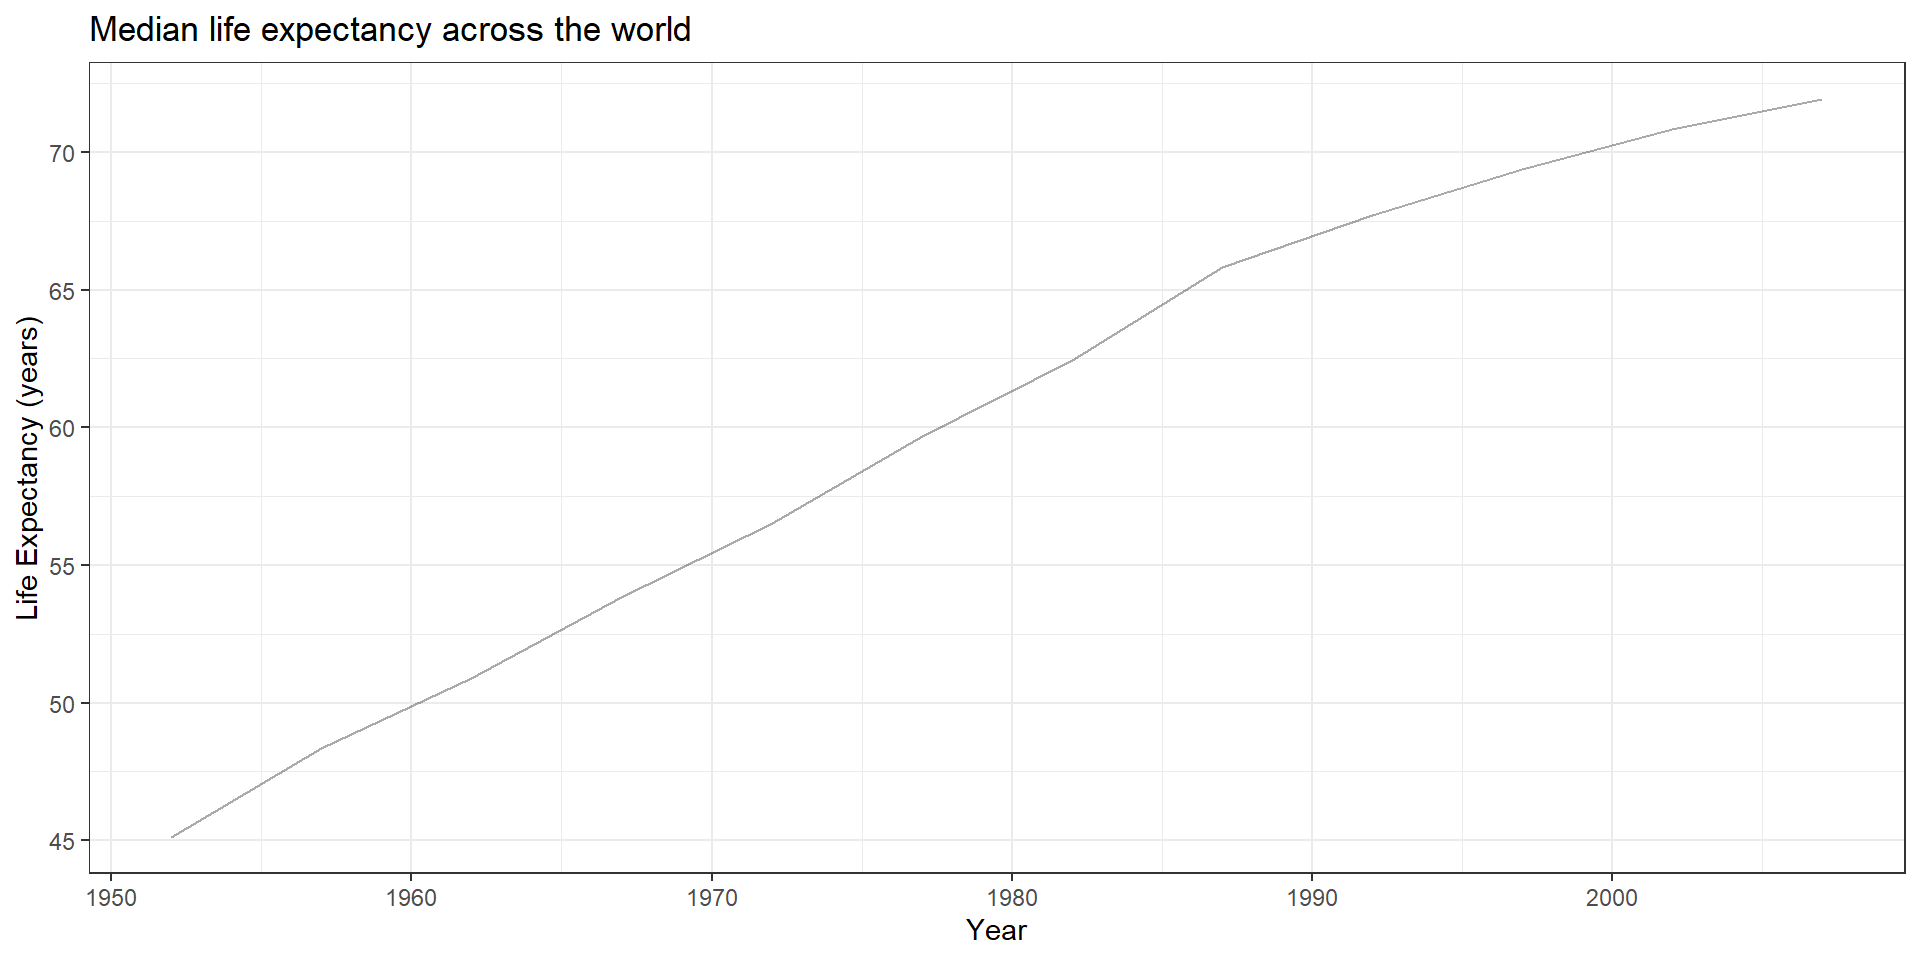
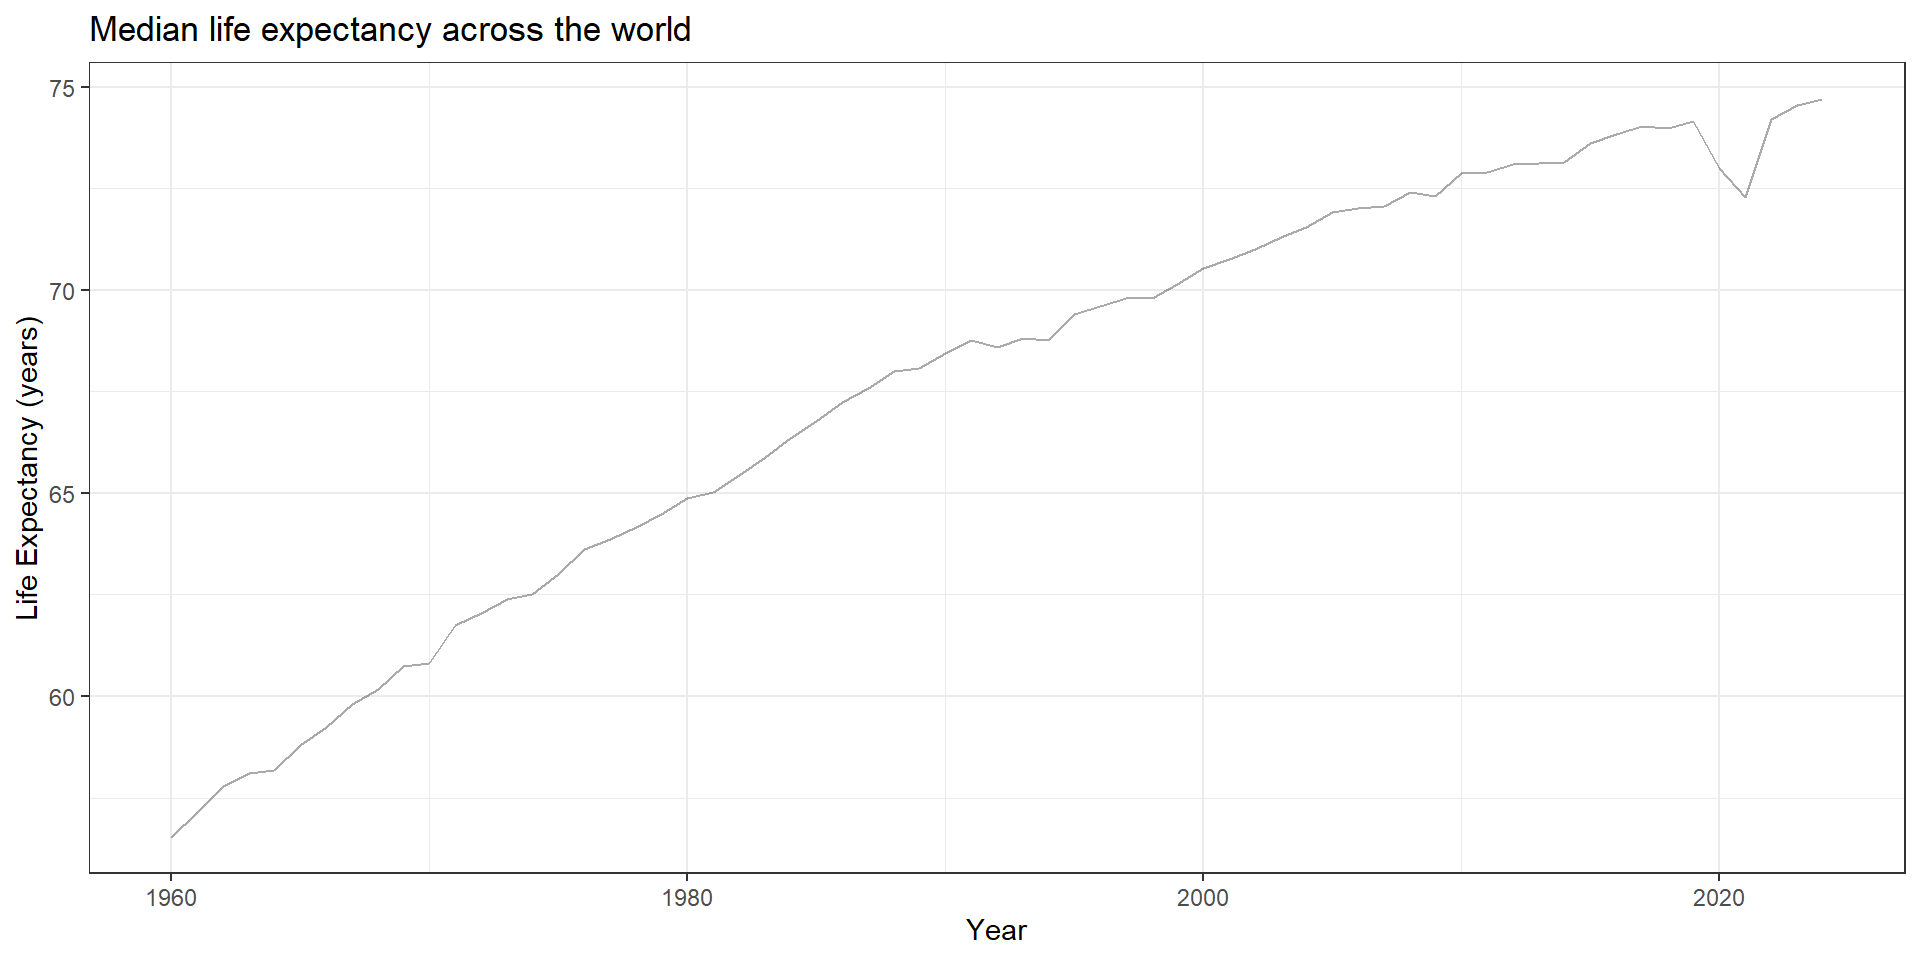
Intro deck: health-and-wealth charts on World Bank data through 2024 (was gapminder to 2007)

diff --git a/00-intro/intro.html b/00-intro/intro.html
@@ -253,11 +253,11 @@ Ian McCarthy
 <div class="cell" data-layout-align="center">
 <details class="code-fold">
 <summary>R Code</summary>
-<div class="code-copy-outer-scaffold"><div class="sourceCode cell-code" id="cb1"><pre class="sourceCode numberSource r number-lines code-with-copy"><code class="sourceCode r"><span id="cb1-1"><a href=""></a>gapminder <span class="sc">%&gt;%</span></span>
-<span id="cb1-2"><a href=""></a>  <span class="fu">group_by</span>(year) <span class="sc">%&gt;%</span></span>
-<span id="cb1-3"><a href=""></a>  <span class="fu">summarize</span>(<span class="at">lifeExp =</span> <span class="fu">median</span>(lifeExp),</span>
-<span id="cb1-4"><a href=""></a>            <span class="at">gdpMed =</span> <span class="fu">median</span>(gdpPercap)) <span class="sc">%&gt;%</span></span>
-<span id="cb1-5"><a href=""></a>  <span class="fu">ggplot</span>(<span class="fu">aes</span>(year,lifeExp)) <span class="sc">+</span> <span class="fu">geom_line</span>(<span class="at">alpha =</span> <span class="dv">1</span><span class="sc">/</span><span class="dv">3</span>) <span class="sc">+</span> <span class="fu">theme_bw</span>() <span class="sc">+</span></span>
+<div class="code-copy-outer-scaffold"><div class="sourceCode cell-code" id="cb1"><pre class="sourceCode numberSource r number-lines code-with-copy"><code class="sourceCode r"><span id="cb1-1"><a href=""></a>wb <span class="sc">%&gt;%</span></span>
+<span id="cb1-2"><a href=""></a>  <span class="fu">filter</span>(<span class="sc">!</span><span class="fu">is.na</span>(life_exp)) <span class="sc">%&gt;%</span></span>
+<span id="cb1-3"><a href=""></a>  <span class="fu">group_by</span>(year) <span class="sc">%&gt;%</span></span>
+<span id="cb1-4"><a href=""></a>  <span class="fu">summarize</span>(<span class="at">life_exp =</span> <span class="fu">median</span>(life_exp)) <span class="sc">%&gt;%</span></span>
+<span id="cb1-5"><a href=""></a>  <span class="fu">ggplot</span>(<span class="fu">aes</span>(year, life_exp)) <span class="sc">+</span> <span class="fu">geom_line</span>(<span class="at">alpha =</span> <span class="dv">1</span><span class="sc">/</span><span class="dv">3</span>) <span class="sc">+</span> <span class="fu">theme_bw</span>() <span class="sc">+</span></span>
 <span id="cb1-6"><a href=""></a>    <span class="fu">labs</span>(<span class="at">x =</span> <span class="st">"Year"</span>,</span>
 <span id="cb1-7"><a href=""></a>         <span class="at">y =</span> <span class="st">"Life Expectancy (years)"</span>,</span>
 <span id="cb1-8"><a href=""></a>         <span class="at">title =</span> <span class="st">"Median life expectancy across the world"</span>)</span></code></pre></div><button title="Copy to Clipboard" class="code-copy-button"><i class="bi"></i></button></div>
@@ -270,11 +270,13 @@ Ian McCarthy
 <div class="cell" data-layout-align="center">
 <details class="code-fold">
 <summary>R Code</summary>
-<div class="code-copy-outer-scaffold"><div class="sourceCode cell-code" id="cb2"><pre class="sourceCode numberSource r number-lines code-with-copy"><code class="sourceCode r"><span id="cb2-1"><a href=""></a><span class="fu">ggplot</span>(<span class="at">data =</span> gapminder, <span class="at">mapping =</span> <span class="fu">aes</span>(<span class="at">x =</span> gdpPercap, <span class="at">y =</span> lifeExp)) <span class="sc">+</span> </span>
-<span id="cb2-2"><a href=""></a>  <span class="fu">geom_point</span>(<span class="at">size =</span> <span class="dv">1</span>) <span class="sc">+</span> <span class="fu">theme_bw</span>() <span class="sc">+</span> <span class="fu">scale_x_continuous</span>(<span class="at">label =</span> comma) <span class="sc">+</span></span>
-<span id="cb2-3"><a href=""></a>  <span class="fu">labs</span>(<span class="at">x =</span> <span class="st">"GDP Per Capita ($US)"</span>,</span>
-<span id="cb2-4"><a href=""></a>       <span class="at">y =</span> <span class="st">"Life Expectancy (years)"</span>,</span>
-<span id="cb2-5"><a href=""></a>       <span class="at">title =</span> <span class="st">"Life expectancy and GDP"</span>)</span></code></pre></div><button title="Copy to Clipboard" class="code-copy-button"><i class="bi"></i></button></div>
+<div class="code-copy-outer-scaffold"><div class="sourceCode cell-code" id="cb2"><pre class="sourceCode numberSource r number-lines code-with-copy"><code class="sourceCode r"><span id="cb2-1"><a href=""></a>wb <span class="sc">%&gt;%</span></span>
+<span id="cb2-2"><a href=""></a>  <span class="fu">filter</span>(<span class="sc">!</span><span class="fu">is.na</span>(gdp_pc), <span class="sc">!</span><span class="fu">is.na</span>(life_exp)) <span class="sc">%&gt;%</span></span>
+<span id="cb2-3"><a href=""></a>  <span class="fu">ggplot</span>(<span class="fu">aes</span>(<span class="at">x =</span> gdp_pc, <span class="at">y =</span> life_exp)) <span class="sc">+</span></span>
+<span id="cb2-4"><a href=""></a>  <span class="fu">geom_point</span>(<span class="at">size =</span> <span class="dv">1</span>) <span class="sc">+</span> <span class="fu">theme_bw</span>() <span class="sc">+</span> <span class="fu">scale_x_continuous</span>(<span class="at">label =</span> comma) <span class="sc">+</span></span>
+<span id="cb2-5"><a href=""></a>  <span class="fu">labs</span>(<span class="at">x =</span> <span class="st">"GDP per capita (PPP $)"</span>,</span>
+<span id="cb2-6"><a href=""></a>       <span class="at">y =</span> <span class="st">"Life Expectancy (years)"</span>,</span>
+<span id="cb2-7"><a href=""></a>       <span class="at">title =</span> <span class="st">"Life expectancy and GDP"</span>)</span></code></pre></div><button title="Copy to Clipboard" class="code-copy-button"><i class="bi"></i></button></div>
 </details>
 
 </div>
@@ -284,16 +286,17 @@ Ian McCarthy
 <div class="cell" data-layout-align="center">
 <details class="code-fold">
 <summary>R Code</summary>
-<div class="code-copy-outer-scaffold"><div class="sourceCode cell-code" id="cb3"><pre class="sourceCode numberSource r number-lines code-with-copy"><code class="sourceCode r"><span id="cb3-1"><a href=""></a><span class="fu">ggplot</span>(gapminder, <span class="fu">aes</span>(gdpPercap, lifeExp, <span class="at">size =</span> pop)) <span class="sc">+</span></span>
-<span id="cb3-2"><a href=""></a>  <span class="fu">geom_point</span>(<span class="at">alpha =</span> <span class="fl">0.5</span>, <span class="at">show.legend =</span> <span class="cn">FALSE</span>) <span class="sc">+</span></span>
-<span id="cb3-3"><a href=""></a>  <span class="fu">scale_colour_manual</span>(<span class="at">values =</span> country_colors) <span class="sc">+</span></span>
-<span id="cb3-4"><a href=""></a>  <span class="fu">scale_size</span>(<span class="at">range =</span> <span class="fu">c</span>(<span class="dv">2</span>, <span class="dv">12</span>)) <span class="sc">+</span></span>
-<span id="cb3-5"><a href=""></a>  <span class="fu">scale_x_log10</span>() <span class="sc">+</span></span>
-<span id="cb3-6"><a href=""></a>  <span class="fu">facet_wrap</span>(<span class="sc">~</span>continent) <span class="sc">+</span></span>
-<span id="cb3-7"><a href=""></a>  <span class="fu">labs</span>(<span class="at">title =</span> <span class="st">'Year: {frame_time}'</span>, <span class="at">x =</span> <span class="st">'Log GDP Per Capita ($US)'</span>, <span class="at">y =</span> <span class="st">'Life Expectancy (years)'</span>) <span class="sc">+</span></span>
-<span id="cb3-8"><a href=""></a>  <span class="fu">transition_time</span>(year) <span class="sc">+</span></span>
-<span id="cb3-9"><a href=""></a>  <span class="fu">ease_aes</span>(<span class="st">'linear'</span>) <span class="sc">+</span></span>
-<span id="cb3-10"><a href=""></a>  <span class="fu">theme_bw</span>()</span></code></pre></div><button title="Copy to Clipboard" class="code-copy-button"><i class="bi"></i></button></div>
+<div class="code-copy-outer-scaffold"><div class="sourceCode cell-code" id="cb3"><pre class="sourceCode numberSource r number-lines code-with-copy"><code class="sourceCode r"><span id="cb3-1"><a href=""></a>wb <span class="sc">%&gt;%</span></span>
+<span id="cb3-2"><a href=""></a>  <span class="fu">filter</span>(<span class="sc">!</span><span class="fu">is.na</span>(gdp_pc), <span class="sc">!</span><span class="fu">is.na</span>(life_exp), <span class="sc">!</span><span class="fu">is.na</span>(pop)) <span class="sc">%&gt;%</span></span>
+<span id="cb3-3"><a href=""></a>  <span class="fu">ggplot</span>(<span class="fu">aes</span>(gdp_pc, life_exp, <span class="at">size =</span> pop, <span class="at">color =</span> region)) <span class="sc">+</span></span>
+<span id="cb3-4"><a href=""></a>  <span class="fu">geom_point</span>(<span class="at">alpha =</span> <span class="fl">0.5</span>, <span class="at">show.legend =</span> <span class="cn">FALSE</span>) <span class="sc">+</span></span>
+<span id="cb3-5"><a href=""></a>  <span class="fu">scale_size</span>(<span class="at">range =</span> <span class="fu">c</span>(<span class="dv">2</span>, <span class="dv">12</span>)) <span class="sc">+</span></span>
+<span id="cb3-6"><a href=""></a>  <span class="fu">scale_x_log10</span>(<span class="at">labels =</span> comma) <span class="sc">+</span></span>
+<span id="cb3-7"><a href=""></a>  <span class="fu">facet_wrap</span>(<span class="sc">~</span>region) <span class="sc">+</span></span>
+<span id="cb3-8"><a href=""></a>  <span class="fu">labs</span>(<span class="at">title =</span> <span class="st">'Year: {round(frame_time)}'</span>, <span class="at">x =</span> <span class="st">'GDP per capita (PPP $, log scale)'</span>, <span class="at">y =</span> <span class="st">'Life Expectancy (years)'</span>) <span class="sc">+</span></span>
+<span id="cb3-9"><a href=""></a>  <span class="fu">transition_time</span>(year) <span class="sc">+</span></span>
+<span id="cb3-10"><a href=""></a>  <span class="fu">ease_aes</span>(<span class="st">'linear'</span>) <span class="sc">+</span></span>
+<span id="cb3-11"><a href=""></a>  <span class="fu">theme_bw</span>()</span></code></pre></div><button title="Copy to Clipboard" class="code-copy-button"><i class="bi"></i></button></div>
 </details>
 
 </div>
@@ -304,17 +307,19 @@ Ian McCarthy
 <details class="code-fold">
 <summary>R Code</summary>
 <div class="code-copy-outer-scaffold"><div class="sourceCode cell-code" id="cb4"><pre class="sourceCode numberSource r number-lines code-with-copy"><code class="sourceCode r"><span id="cb4-1"><a href=""></a>mycolors <span class="ot">&lt;-</span> <span class="fu">c</span>(<span class="st">"US"</span> <span class="ot">=</span> <span class="st">"red"</span>, <span class="st">"other"</span> <span class="ot">=</span> <span class="st">"grey50"</span>)</span>
-<span id="cb4-2"><a href=""></a>gapminder <span class="sc">%&gt;%</span> <span class="fu">filter</span>(country <span class="sc">%in%</span> <span class="fu">c</span>(<span class="st">"Canada"</span>, <span class="st">"France"</span>, <span class="st">"Germany"</span>, <span class="st">"Italy"</span>, <span class="st">"Japan"</span>, <span class="st">"United Kingdom"</span>, <span class="st">"United States"</span>)) <span class="sc">%&gt;%</span></span>
-<span id="cb4-3"><a href=""></a>  <span class="fu">mutate</span>(<span class="at">highlight =</span> <span class="fu">ifelse</span>(country<span class="sc">==</span><span class="st">"United States"</span>, <span class="st">"US"</span>, <span class="st">"other"</span>)) <span class="sc">%&gt;%</span></span>
-<span id="cb4-4"><a href=""></a>  <span class="fu">ggplot</span>(<span class="fu">aes</span>(gdpPercap, lifeExp, <span class="at">size =</span> pop)) <span class="sc">+</span></span>
-<span id="cb4-5"><a href=""></a>  <span class="fu">geom_point</span>(<span class="at">alpha =</span> <span class="fl">0.5</span>, <span class="at">show.legend =</span> <span class="cn">FALSE</span>, <span class="fu">aes</span>(<span class="at">color=</span>highlight)) <span class="sc">+</span></span>
-<span id="cb4-6"><a href=""></a>  <span class="fu">scale_color_manual</span>(<span class="st">"U.S."</span>, <span class="at">values =</span> mycolors) <span class="sc">+</span></span>
-<span id="cb4-7"><a href=""></a>  <span class="fu">scale_size</span>(<span class="at">range =</span> <span class="fu">c</span>(<span class="dv">2</span>, <span class="dv">12</span>)) <span class="sc">+</span></span>
-<span id="cb4-8"><a href=""></a>  <span class="fu">scale_x_comma</span>(<span class="at">limits=</span><span class="fu">c</span>(<span class="dv">0</span>,<span class="dv">55000</span>)) <span class="sc">+</span> </span>
-<span id="cb4-9"><a href=""></a>  <span class="fu">labs</span>(<span class="at">title =</span> <span class="st">'Year: {frame_time}'</span>, <span class="at">x =</span> <span class="st">'GDP Per Capita ($US)'</span>, <span class="at">y =</span> <span class="st">'Life Expectancy (years)'</span>) <span class="sc">+</span></span>
-<span id="cb4-10"><a href=""></a>  <span class="fu">transition_time</span>(year) <span class="sc">+</span></span>
-<span id="cb4-11"><a href=""></a>  <span class="fu">ease_aes</span>(<span class="st">'linear'</span>) <span class="sc">+</span></span>
-<span id="cb4-12"><a href=""></a>  <span class="fu">theme_bw</span>()</span></code></pre></div><button title="Copy to Clipboard" class="code-copy-button"><i class="bi"></i></button></div>
+<span id="cb4-2"><a href=""></a>wb <span class="sc">%&gt;%</span></span>
+<span id="cb4-3"><a href=""></a>  <span class="fu">filter</span>(country <span class="sc">%in%</span> <span class="fu">c</span>(<span class="st">"Canada"</span>, <span class="st">"France"</span>, <span class="st">"Germany"</span>, <span class="st">"Italy"</span>, <span class="st">"Japan"</span>, <span class="st">"United Kingdom"</span>, <span class="st">"United States"</span>),</span>
+<span id="cb4-4"><a href=""></a>         <span class="sc">!</span><span class="fu">is.na</span>(gdp_pc), <span class="sc">!</span><span class="fu">is.na</span>(life_exp)) <span class="sc">%&gt;%</span></span>
+<span id="cb4-5"><a href=""></a>  <span class="fu">mutate</span>(<span class="at">highlight =</span> <span class="fu">ifelse</span>(country <span class="sc">==</span> <span class="st">"United States"</span>, <span class="st">"US"</span>, <span class="st">"other"</span>)) <span class="sc">%&gt;%</span></span>
+<span id="cb4-6"><a href=""></a>  <span class="fu">ggplot</span>(<span class="fu">aes</span>(gdp_pc, life_exp, <span class="at">size =</span> pop)) <span class="sc">+</span></span>
+<span id="cb4-7"><a href=""></a>  <span class="fu">geom_point</span>(<span class="at">alpha =</span> <span class="fl">0.5</span>, <span class="at">show.legend =</span> <span class="cn">FALSE</span>, <span class="fu">aes</span>(<span class="at">color =</span> highlight)) <span class="sc">+</span></span>
+<span id="cb4-8"><a href=""></a>  <span class="fu">scale_color_manual</span>(<span class="st">"U.S."</span>, <span class="at">values =</span> mycolors) <span class="sc">+</span></span>
+<span id="cb4-9"><a href=""></a>  <span class="fu">scale_size</span>(<span class="at">range =</span> <span class="fu">c</span>(<span class="dv">2</span>, <span class="dv">12</span>)) <span class="sc">+</span></span>
+<span id="cb4-10"><a href=""></a>  <span class="fu">scale_x_comma</span>(<span class="at">limits =</span> <span class="fu">c</span>(<span class="dv">30000</span>, <span class="dv">80000</span>)) <span class="sc">+</span></span>
+<span id="cb4-11"><a href=""></a>  <span class="fu">labs</span>(<span class="at">title =</span> <span class="st">'Year: {round(frame_time)}'</span>, <span class="at">x =</span> <span class="st">'GDP per capita (PPP $)'</span>, <span class="at">y =</span> <span class="st">'Life Expectancy (years)'</span>) <span class="sc">+</span></span>
+<span id="cb4-12"><a href=""></a>  <span class="fu">transition_time</span>(year) <span class="sc">+</span></span>
+<span id="cb4-13"><a href=""></a>  <span class="fu">ease_aes</span>(<span class="st">'linear'</span>) <span class="sc">+</span></span>
+<span id="cb4-14"><a href=""></a>  <span class="fu">theme_bw</span>()</span></code></pre></div><button title="Copy to Clipboard" class="code-copy-button"><i class="bi"></i></button></div>
 </details>
 
 </div>
